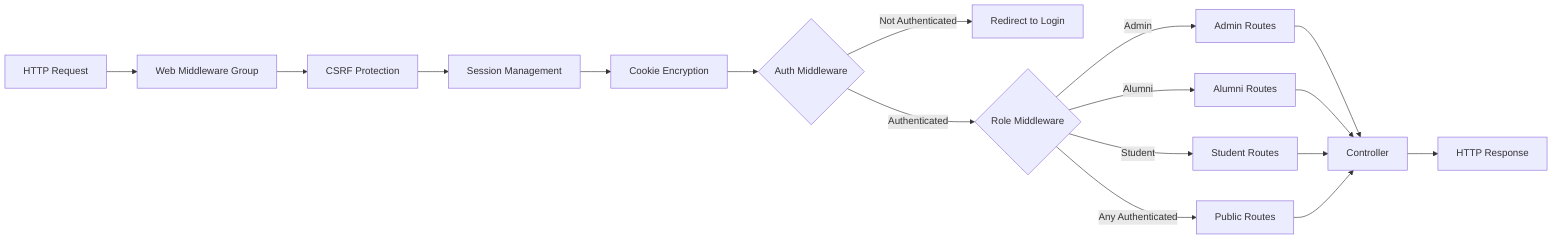
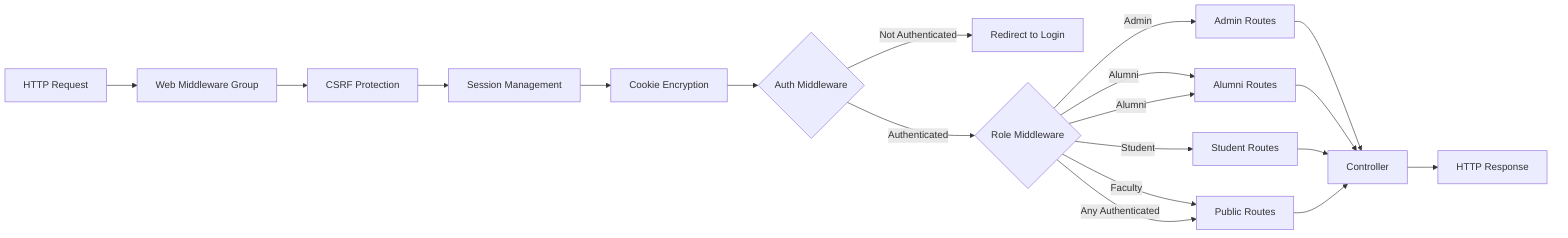
docs: Refactor role-based access control diagram to a sequence diagram and integrate Faculty role into system flow.

diff --git a/SYSTEM_FLOW.md b/SYSTEM_FLOW.md
@@ -102,26 +102,35 @@ sequenceDiagram
 ## 5. Role-Based Access Control
 
 ```mermaid
-graph TD
-    Start[User Login] --> Auth{Authenticated?}
-    Auth -->|No| Login[Login Page]
-    Auth -->|Yes| RoleCheck{Check User Role}
+sequenceDiagram
+    participant User
+    participant Browser
+    participant RoleMiddleware
+    participant AdminController
+    participant AlumniController
+    participant StudentController
+    participant PublicController
     
-    RoleCheck -->|Admin| AdminDash[Admin Dashboard<br/>/admin/dashboard]
-    RoleCheck -->|Alumni| AlumniDash[Alumni Dashboard<br/>/backend/alumni]
-    RoleCheck -->|Student| StudentDash[Student Dashboard<br/>/backend/student]
+    User->>Browser: Login Successful
+    Browser->>RoleMiddleware: Redirect based on Role
     
-    AdminDash --> AdminFeatures[Admin Features:<br/>- Manage Users<br/>- Manage Posts<br/>- Manage Events<br/>- View Job Applicants<br/>- Manage Job Board]
-    
-    AlumniDash --> AlumniFeatures[Alumni Features:<br/>- Post Jobs<br/>- View Applicants<br/>- Download CVs<br/>- Manage Job Board]
-    
-    StudentDash --> StudentFeatures[Student Features:<br/>- View Job Applications<br/>- Apply for Jobs<br/>- View Dashboard]
-    
-    AdminFeatures --> PublicAccess[Public Access]
-    AlumniFeatures --> PublicAccess
-    StudentFeatures --> PublicAccess
-    
-    PublicAccess --> CommonFeatures[Common Features:<br/>- Home Feed<br/>- Profile Management<br/>- View Events<br/>- Alumni List<br/>- Student List<br/>- Job Board]
+    alt Role is Admin (1)
+        RoleMiddleware->>AdminController: Redirect to /admin/dashboard
+        AdminController-->>Browser: Show Admin Dashboard
+        Note right of Browser: Manage Users, Post, Events
+    else Role is Alumni (2)
+        RoleMiddleware->>AlumniController: Redirect to /backend/alumni
+        AlumniController-->>Browser: Show Alumni Dashboard
+        Note right of Browser: Jobs, CVs, Public Features
+    else Role is Student (3)
+        RoleMiddleware->>StudentController: Redirect to /backend/student
+        StudentController-->>Browser: Show Student Dashboard
+        Note right of Browser: Apply Jobs, View Profile
+    else Role is Faculty (4) / Other
+        RoleMiddleware->>PublicController: Redirect to Custom/Public Page
+        PublicController-->>Browser: Show Public View
+        Note right of Browser: Home Feed, Events, Lists
+    end
 ```
 
 ---
@@ -473,7 +482,7 @@ graph TD
     Start["User Access Events"] --> RoleCheck{"Check User Role"}
     
     RoleCheck -->|Admin| AdminEventAccess["Admin Event Management<br/>/admin/events"]
-    RoleCheck -->|Alumni/Student| PublicEventAccess["Public Event View<br/>/events"]
+    RoleCheck -->|Alumni/Student/Faculty| PublicEventAccess["Public Event View<br/>/events"]
     
     AdminEventAccess --> AdminActions{"Admin Actions"}
     AdminActions -->|Create| CreateEvent["POST /admin/events<br/>EventController@store"]
@@ -757,7 +766,9 @@ graph LR
     
     RoleCheck -->|Admin| AdminRoutes[Admin Routes]
     RoleCheck -->|Alumni| AlumniRoutes[Alumni Routes]
+    RoleCheck -->|Alumni| AlumniRoutes[Alumni Routes]
     RoleCheck -->|Student| StudentRoutes[Student Routes]
+    RoleCheck -->|Faculty| PublicRoutes
     RoleCheck -->|Any Authenticated| PublicRoutes[Public Routes]
     
     AdminRoutes --> Controller[Controller]
